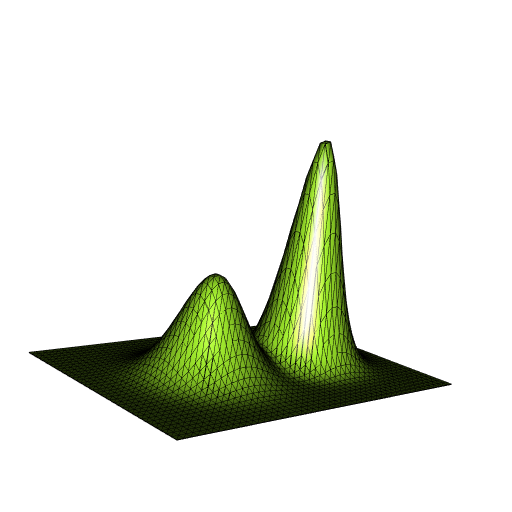
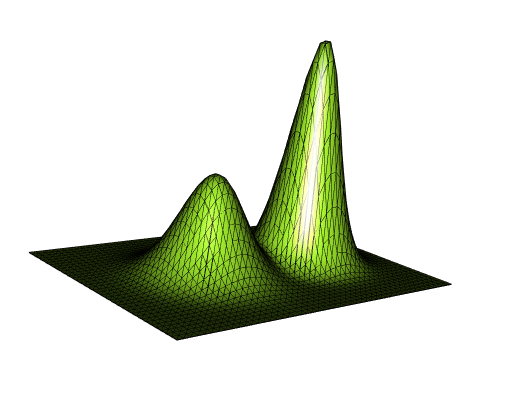
volcano

Changed region(s): [[0.0625, 0.0874, 0.875, 0.8738]]

diff --git a/README.md b/README.md
@@ -78,6 +78,10 @@ parameter (0.05, 0.02, 0.005):
 
 ![](https://raw.githubusercontent.com/stla/RCGAL/main/inst/DelaunayExamples/bivariateGaussian.png)
 
+*Volcano:*
+
+![](https://raw.githubusercontent.com/stla/RCGAL/main/inst/DelaunayExamples/volcano.png)
+
 
 
 ## Convex hull
